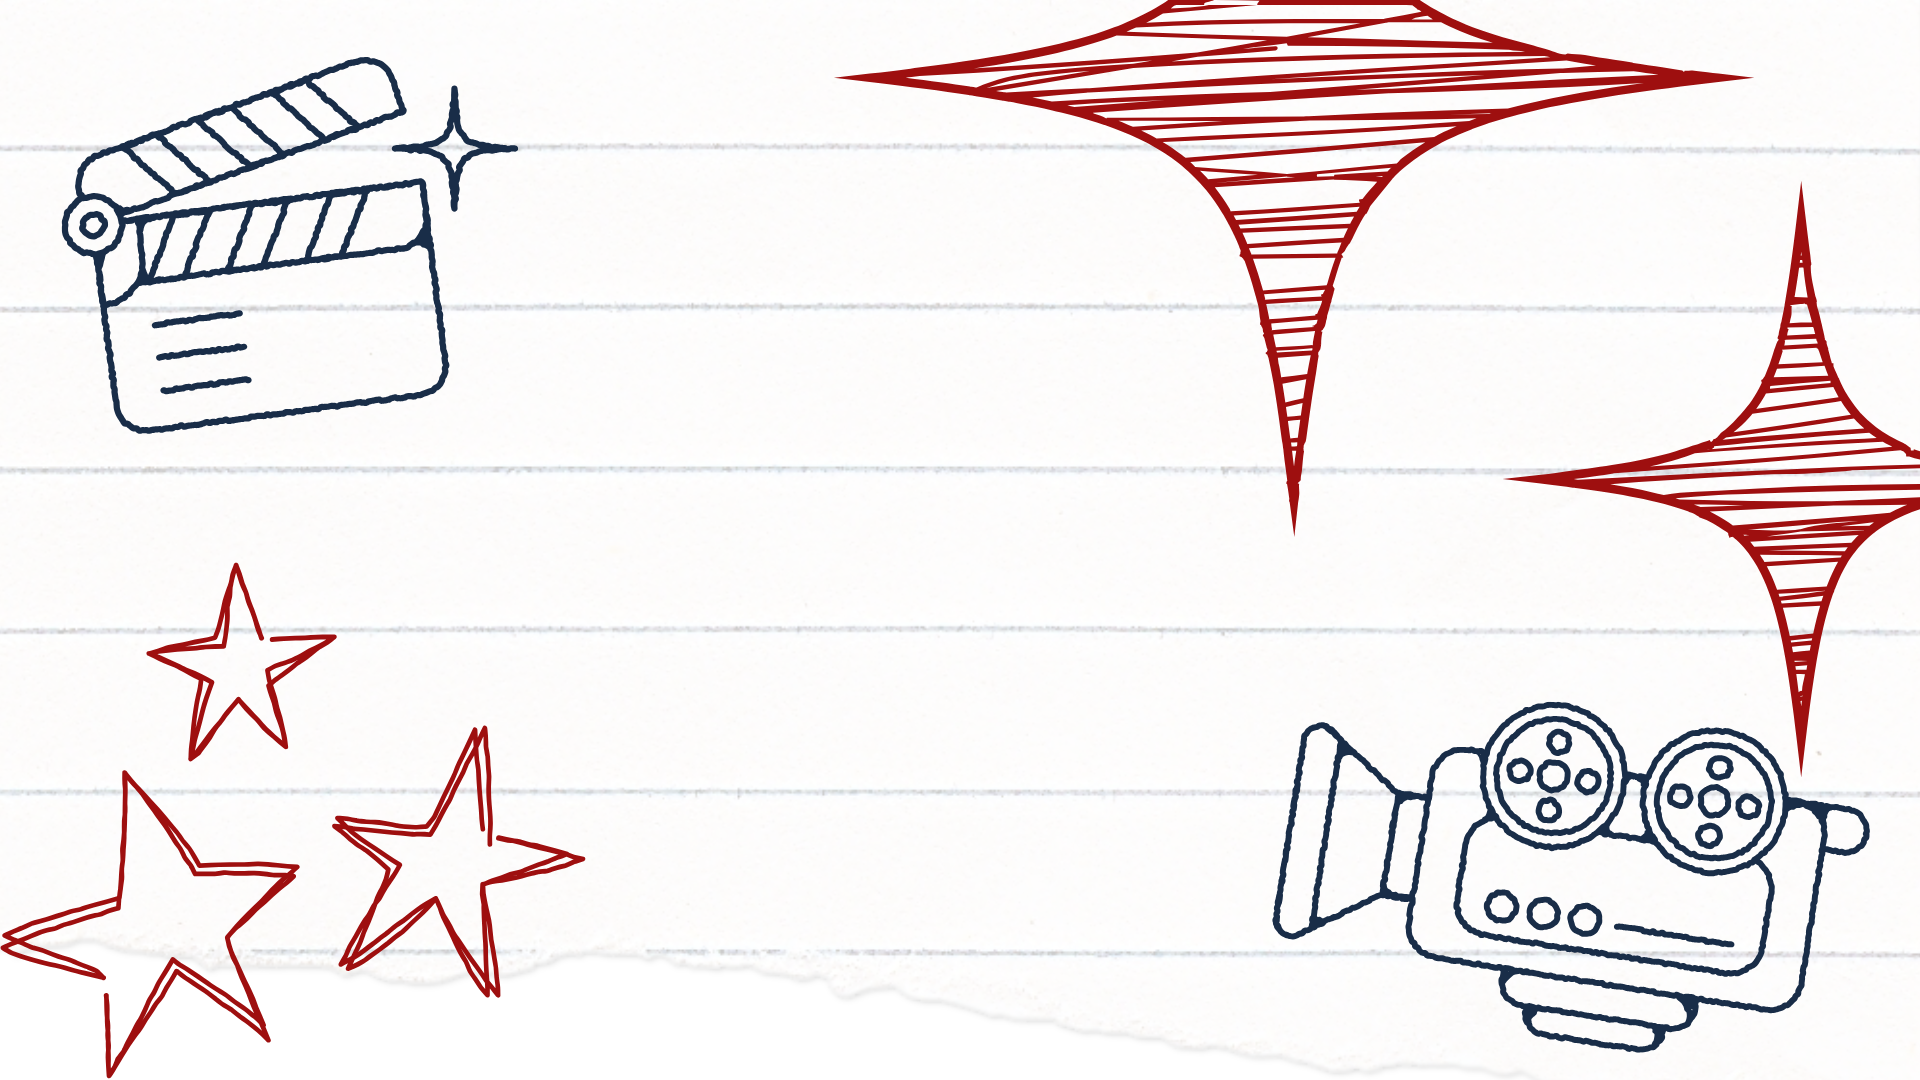
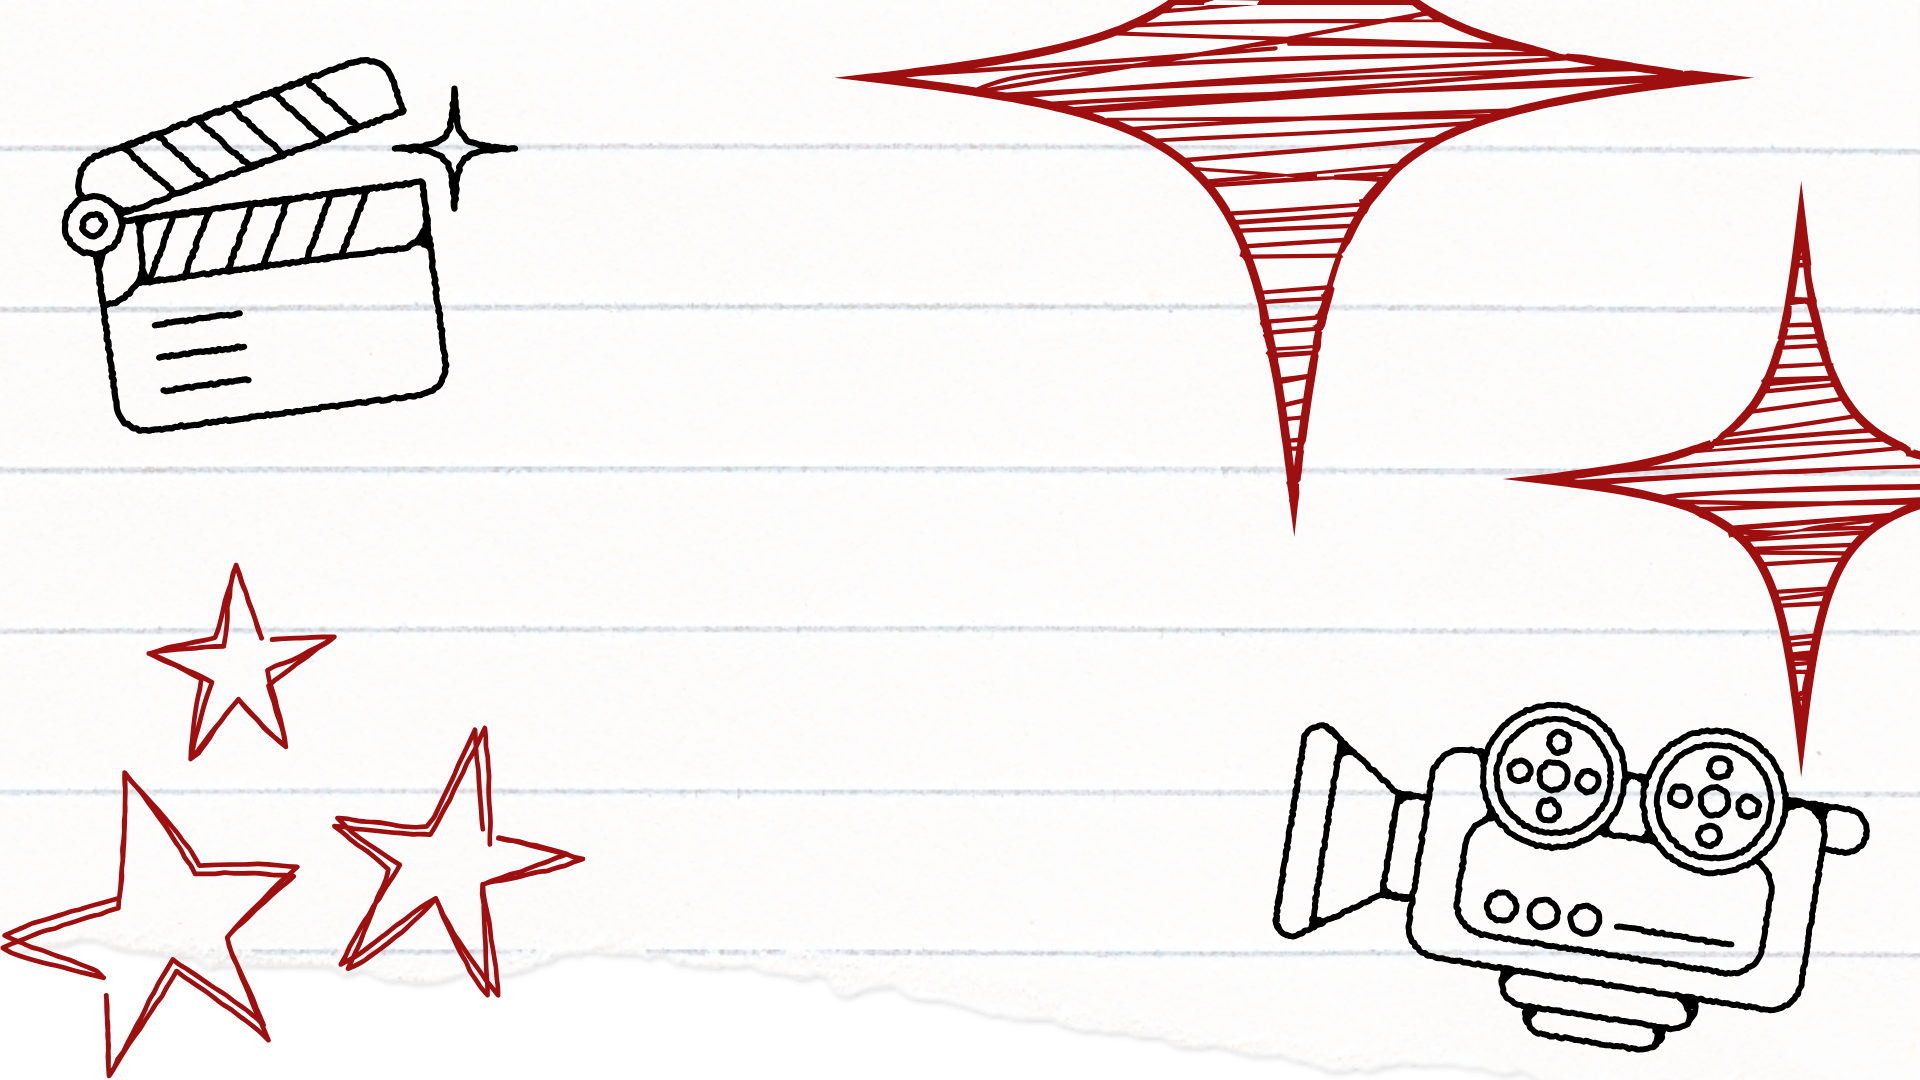
changes

Changed region(s): [[0.6562, 0.6417, 0.9688, 0.9778], [0.0312, 0.0611, 0.2812, 0.3972]]

diff --git a/compare_representation.py b/compare_representation.py
@@ -115,7 +115,7 @@ def comparing_representations(clean_training):
     X_custom_train_df = X_custom_train.copy()
     X_custom_test_df = X_custom_test.copy()
 
-    if best_rep =="custom":
+    if "custom" in best_rep:
         importance_df = evaluate_feature_importance(
             model = best_estimator, 
             X = X_custom_test_df, 
